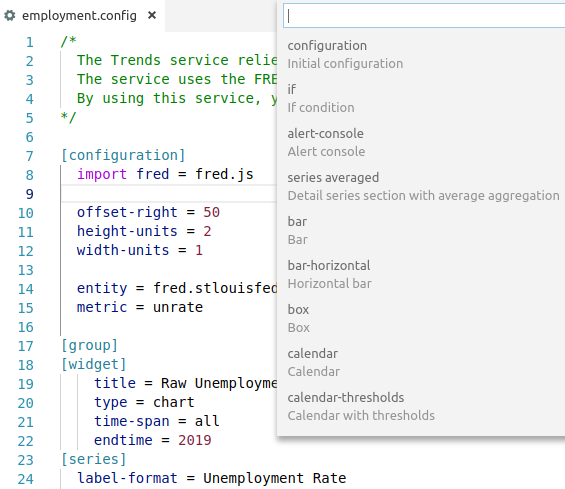
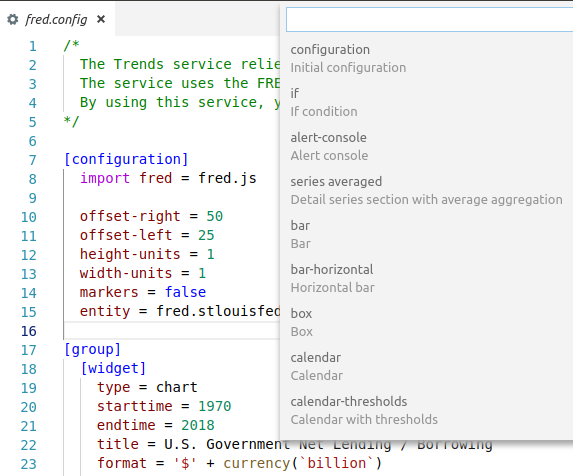
Update syntax highlighting (#142)

Changed region(s): [[0.0, 0.0, 1.0, 1.0], [0.0301, 0.0882, 0.0602, 1.0]]

diff --git a/README.md b/README.md
@@ -64,6 +64,8 @@ To display the list of available completions (such as snippets or settings like 
 
 ### Syntax highlighting
 
+Theme used to create the screenshot is `Light+(default light)` (Choose theme by **File > Color theme**).
+
 ![Screenshot of highlighted syntax](./images/syntax.png)
 
 ### Code prettifier
